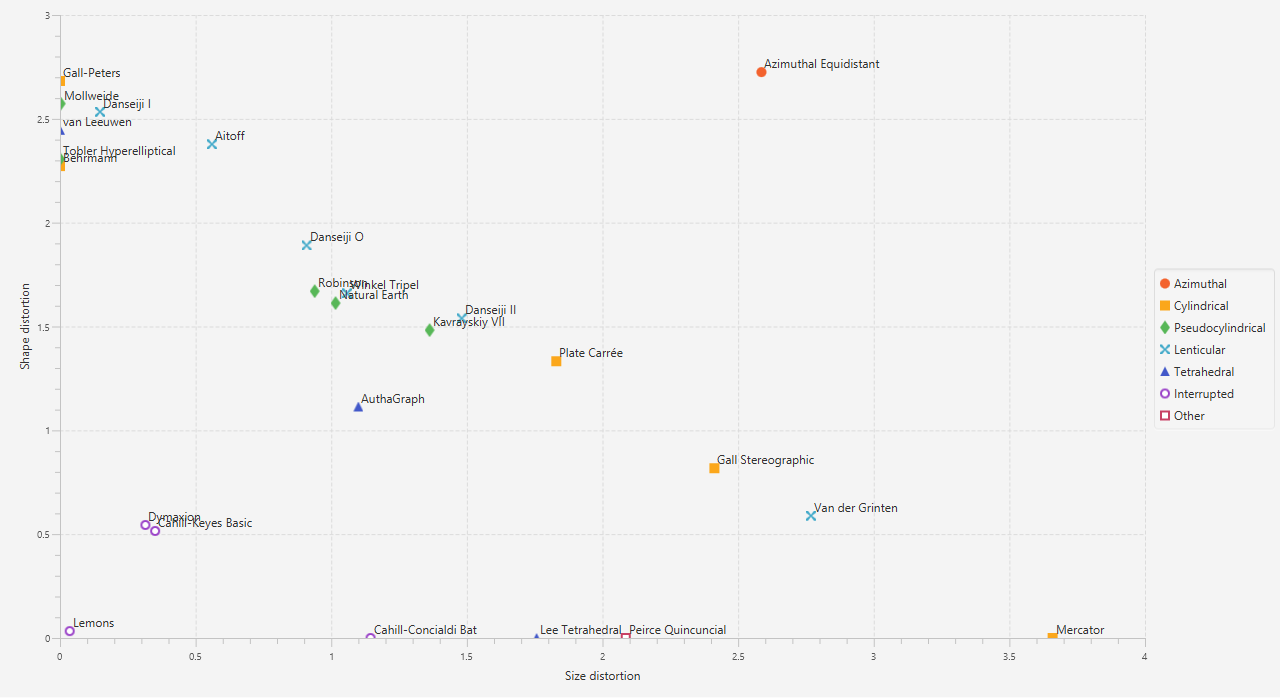
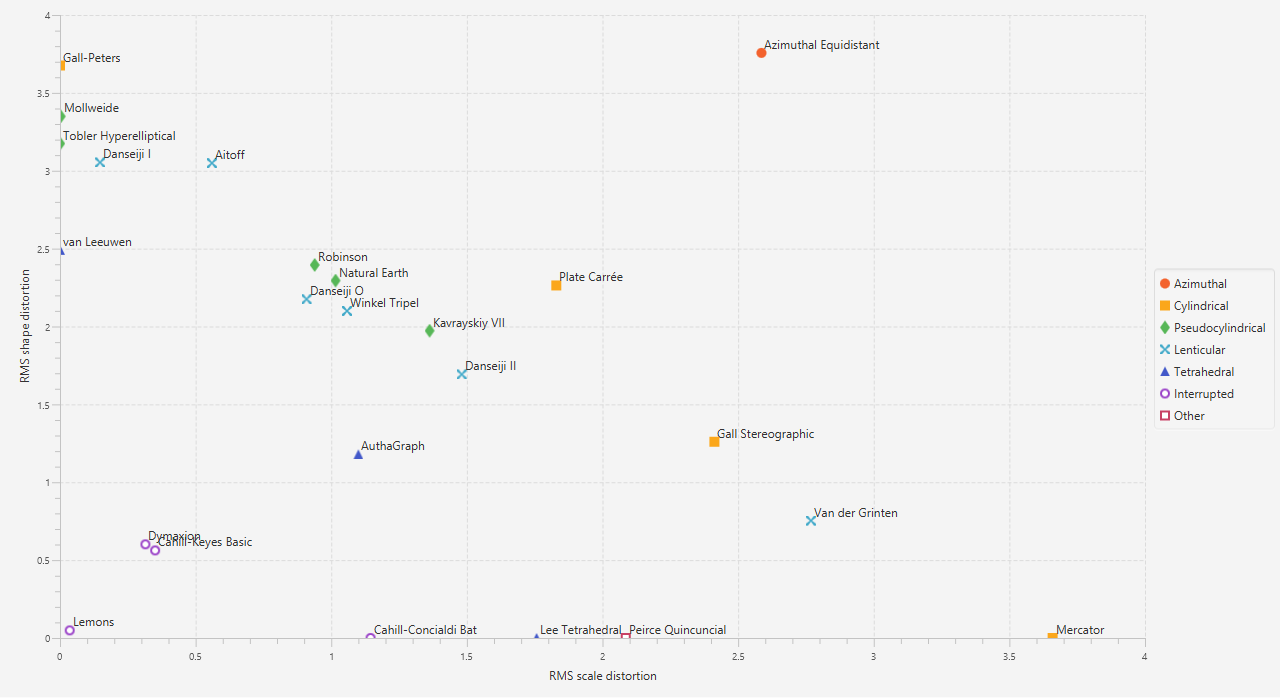
I knew it!
I just changed it from a linear mean to an rms, and it's much more intuitive now. My maps come out more or less on top, though Danseiji O and II really don't offer much new, and Behrman is definitively worse than GP. Oh, well. I guess I shouldn't put too much stock in cylindrical maps in the first place.

diff --git a/src/apps/MapPlotter.java b/src/apps/MapPlotter.java
@@ -72,19 +72,19 @@ public class MapPlotter extends Application {
 	private static final double GLOBE_RES = .005;
 	
 	private static final Projection[] CYLINDRICAL = { Cylindrical.MERCATOR,
-			Cylindrical.PLATE_CARREE, Cylindrical.GALL_ORTHOGRAPHIC, Cylindrical.BEHRMANN,
+			Cylindrical.PLATE_CARREE, Cylindrical.GALL_ORTHOGRAPHIC,
 			Cylindrical.GALL_STEREOGRAPHIC };
 	private static final Projection[] AZIMUTHAL = { Azimuthal.POLAR };
 	private static final Projection[] PSEUDOCYL = { Pseudocylindrical.MOLLWEIDE,
 			ArbitraryPseudocylindrical.ROBINSON, ArbitraryPseudocylindrical.NATURAL_EARTH,
 			Pseudocylindrical.KAVRAYSKIY_VII, Tobler.TOBLER };
-	private static final Projection[] LENTICULAR = { Lenticular.AITOFF,
-			Lenticular.VAN_DER_GRINTEN, WinkelTripel.WINKEL_TRIPEL, Arbitrary.DANSEIJI_O,
-			Arbitrary.DANSEIJI_I, Arbitrary.DANSEIJI_II };
+	private static final Projection[] LENTICULAR = { Lenticular.AITOFF, Lenticular.VAN_DER_GRINTEN,
+			WinkelTripel.WINKEL_TRIPEL, Arbitrary.DANSEIJI_O, Arbitrary.DANSEIJI_I,
+			Arbitrary.DANSEIJI_II };
 	private static final Projection[] TETRAHEDRAL = { Polyhedral.LEE_TETRAHEDRAL_RECTANGULAR,
 			Polyhedral.AUTHAGRAPH, Polyhedral.VAN_LEEUWEN };
-	private static final Projection[] CHEATY = { Pseudocylindrical.LEMONS,
-			Octohedral.KEYES_BASIC_M, Polyhedral.DYMAXION, Octohedral.CAHILL_CONCIALDI };
+	private static final Projection[] CHEATY = { Pseudocylindrical.LEMONS, Octohedral.KEYES_BASIC_M,
+			Polyhedral.DYMAXION, Octohedral.CAHILL_CONCIALDI };
 	private static final Projection[] OTHER = { Misc.PEIRCE_QUINCUNCIAL };
 	
 	
@@ -101,8 +101,8 @@ public class MapPlotter extends Application {
 	public void start(Stage root) {
 		final ScatterChart<Number, Number> plot =
 				new ScatterChart<Number, Number>(
-				new NumberAxis("Size distortion", 0, 4, .5),
-				new NumberAxis("Shape distortion", 0, 3, .5));
+				new NumberAxis("RMS scale distortion", 0, 4, .5),
+				new NumberAxis("RMS shape distortion", 0, 4, .5));
 		plot.setLegendSide(Side.RIGHT);
 		final AnchorPane overlay = new AnchorPane();
 		stack = new StackPane(plot, overlay);

diff --git a/src/utils/Math2.java b/src/utils/Math2.java
@@ -74,6 +74,15 @@ public class Math2 {
 	}
 	
 	
+	public static double[][] exp(double[][] values) {
+		double[][] output = new double[values.length][values[0].length];
+		for (int i = 0; i < values.length; i ++)
+			for (int j = 0; j < values[i].length; j ++)
+				output[i][j] = Math.exp(values[i][j]);
+		return output;
+	}
+	
+	
 	public static final double combine(double n, int k) {
 		double output = 1;
 		for (int i = k; i > 0; i --) {

diff --git a/src/apps/MapAnalyzer.java b/src/apps/MapAnalyzer.java
@@ -256,7 +256,7 @@ public class MapAnalyzer extends MapApplication {
 				if (sizeChart != null) {
 					distortionG = proj.calculateDistortion(Projection.globe(GLOBE_RES));
 					sizeDistort = Math2.stdDev(distortionG[0]);
-					shapeDistort = Math2.mean(distortionG[1]);
+					shapeDistort = Math2.rms(distortionG[1]);
 				}
 				
 				if (isCancelled()) 	return null;

diff --git a/src/maps/Projection.java b/src/maps/Projection.java
@@ -332,7 +332,7 @@ public abstract class Projection {
 	
 	public double[] avgDistortion(double[][][] points) {
 		final double[][][] distDist = calculateDistortion(points);
-		return new double[] {Math2.stdDev(distDist[0]), Math2.mean(distDist[1])};
+		return new double[] {Math2.stdDev(distDist[0]), Math2.rms(distDist[1])};
 	}
 	
 	

diff --git a/src/apps/MapExplainer.java b/src/apps/MapExplainer.java
@@ -39,7 +39,6 @@ import maps.Conic;
 import maps.Cylindrical;
 import maps.Lenticular;
 import maps.Misc;
-import maps.MyProjections;
 import maps.Octohedral;
 import maps.Polyhedral;
 import maps.Projection;
